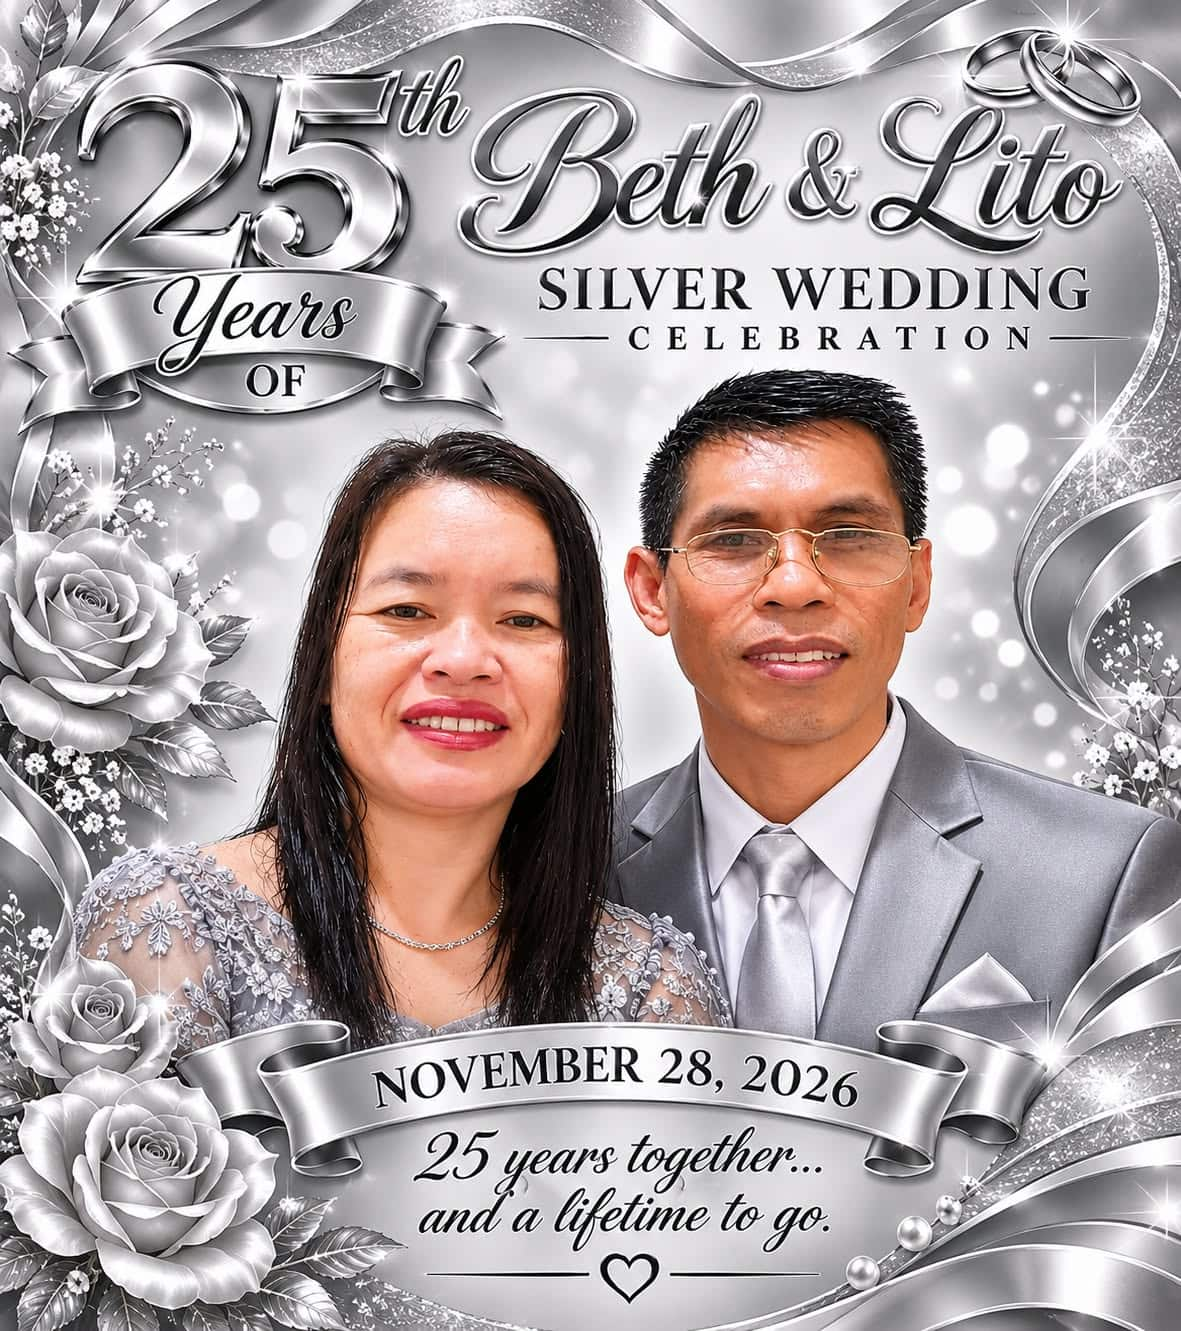
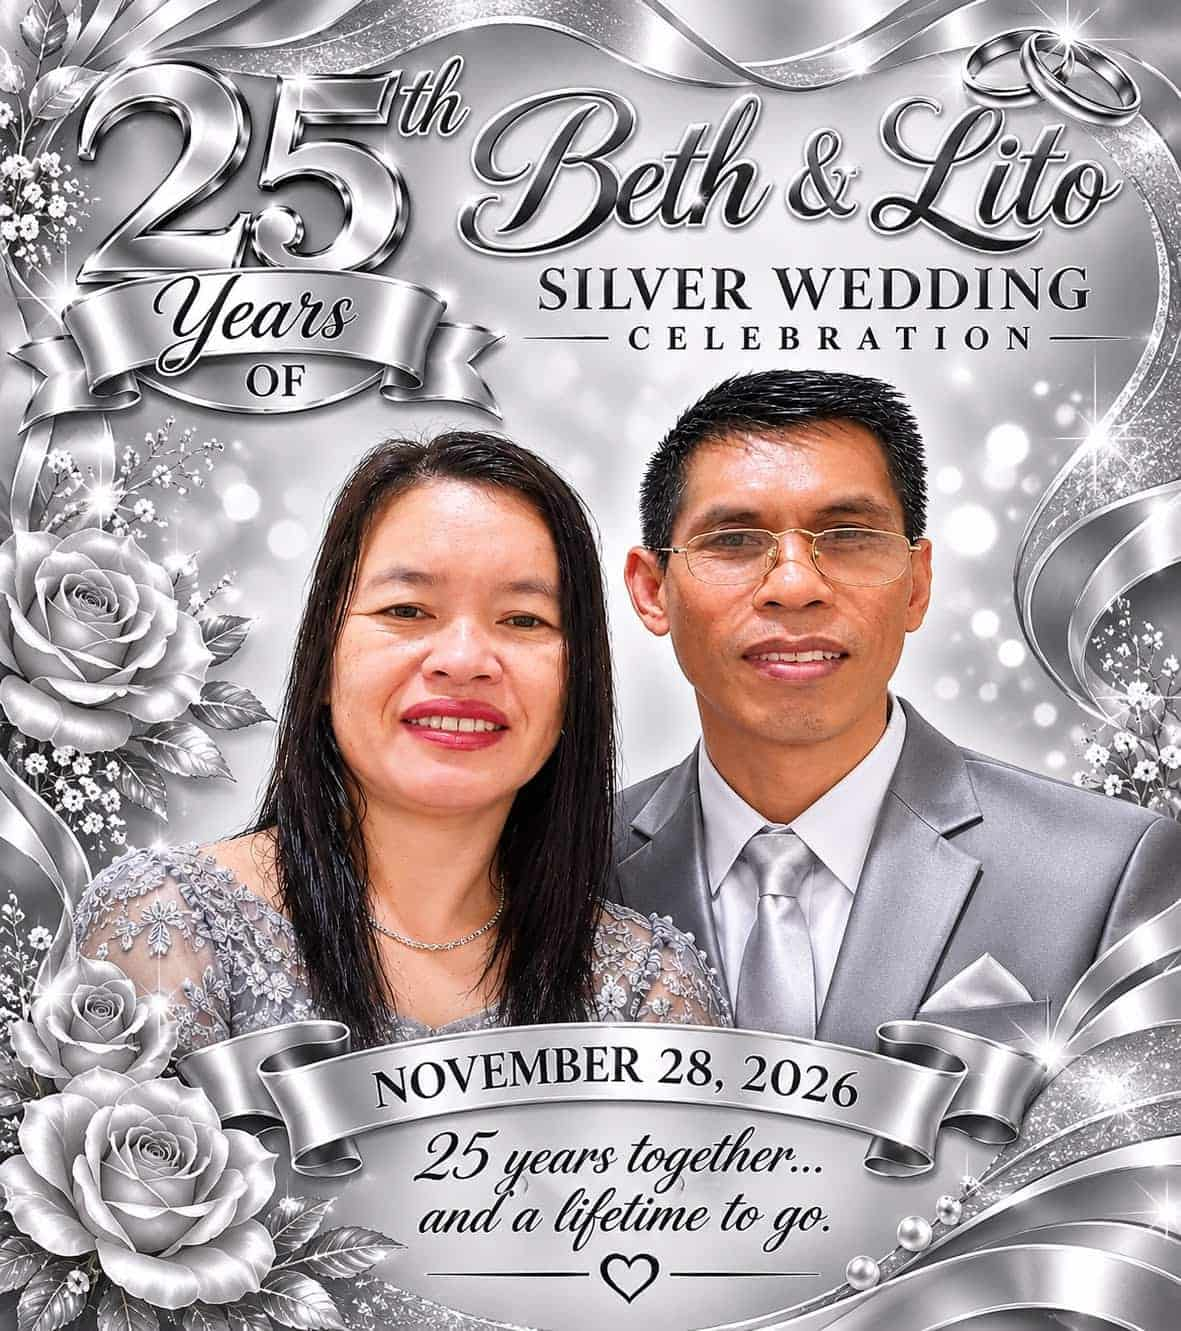
..

Changed region(s): [[0.5182, 0.8933, 0.5487, 0.9241]]

diff --git a/js/min/loader.min.js b/js/min/loader.min.js
@@ -1,1 +1,1 @@
-const CONTENT_BUILD_VERSION="11.05.26",SCRIPT_BUILD_VERSION="11.05.26",ANIMATION_VERSION="1.0.0",SCRIPT_VERSION="1.0.0",LISTENER_VERSION="1.0.0",DATA_VERSION="1.0.3",ICON_VERSION="1.0.0",FONT_VERSION="1.0.0",STYLE_VERSION="1.0.0",HTML_LOADING_VERSION="1.0.0",HTML_HEADER_VERSION="1.0.0",HTML_MAIN_VERSION="1.0.0",HTML_FOOTER_VERSION="1.0.0",loadAssets=({rel:t,href:e,type:n})=>new Promise((s,o)=>{const a=document.createElement("link");a.rel=t,a.href=e,n&&(a.type=n),a.onload=s,a.onerror=o,document.head.appendChild(a),"stylesheet"!=t?.toLowerCase()&&s()}),loadContentHTML=async(t,e)=>{const n=await fetch(e),s=await n.text();document.getElementById(t).insertAdjacentHTML("beforeend",s)},loadWebContent=async()=>{await loadAssets({rel:"stylesheet",href:"css/style.min.css?v=1.0.0&11.05.26"}),await loadContentHTML("loadingContent","content/loading.html?v=1.0.0&11.05.26"),await loadAssets({rel:"icon",href:"/assets/favicon.ico?v=1.0.0&11.05.26",type:"image/x-icon"}),await loadAssets({rel:"stylesheet",href:"assets/fonts/fonts.min.css?v=1.0.0&11.05.26"}),await loadContentHTML("mainContent","content/header.html?v=1.0.0&11.05.26"),await loadContentHTML("mainContent","content/main_content.html?v=1.0.0&11.05.26"),await loadContentHTML("mainContent","content/footer.html?v=1.0.0&11.05.26"),console.log("Website content loaded")},scripts=["js/libs/gsap.min.js","js/libs/scrollTrigger.min.js","js/min/animation.min.js?v=1.0.0&11.05.26","js/min/script.min.js?v=1.0.0&11.05.26","js/min/listener.min.js?v=1.0.0&11.05.26","js/min/content.min.js?v=1.0.3&11.05.26"],loadScripts=(t=0)=>{if(t>=scripts.length)return void console.log("Website scripts loaded");const e=document.createElement("script");e.src=scripts[t],e.onload=()=>loadScripts(t+1),document.body.appendChild(e)};(async()=>{await loadWebContent(),loadScripts()})();
+const CONTENT_BUILD_VERSION="11.06.26",SCRIPT_BUILD_VERSION="11.06.26",ANIMATION_VERSION="1.0.0",SCRIPT_VERSION="1.0.0",LISTENER_VERSION="1.0.0",DATA_VERSION="1.0.4",ICON_VERSION="1.0.0",FONT_VERSION="1.0.0",STYLE_VERSION="1.0.0",HTML_LOADING_VERSION="1.0.0",HTML_HEADER_VERSION="1.0.0",HTML_MAIN_VERSION="1.0.0",HTML_FOOTER_VERSION="1.0.0",loadAssets=({rel:t,href:e,type:n})=>new Promise((s,o)=>{const a=document.createElement("link");a.rel=t,a.href=e,n&&(a.type=n),a.onload=s,a.onerror=o,document.head.appendChild(a),"stylesheet"!=t?.toLowerCase()&&s()}),loadContentHTML=async(t,e)=>{const n=await fetch(e),s=await n.text();document.getElementById(t).insertAdjacentHTML("beforeend",s)},loadWebContent=async()=>{await loadAssets({rel:"stylesheet",href:"css/style.min.css?v=1.0.0&11.06.26"}),await loadContentHTML("loadingContent","content/loading.html?v=1.0.0&11.06.26"),await loadAssets({rel:"icon",href:"/assets/favicon.ico?v=1.0.0&11.06.26",type:"image/x-icon"}),await loadAssets({rel:"stylesheet",href:"assets/fonts/fonts.min.css?v=1.0.0&11.06.26"}),await loadContentHTML("mainContent","content/header.html?v=1.0.0&11.06.26"),await loadContentHTML("mainContent","content/main_content.html?v=1.0.0&11.06.26"),await loadContentHTML("mainContent","content/footer.html?v=1.0.0&11.06.26"),console.log("Website content loaded")},scripts=["js/libs/gsap.min.js","js/libs/scrollTrigger.min.js","js/min/animation.min.js?v=1.0.0&11.06.26","js/min/script.min.js?v=1.0.0&11.06.26","js/min/listener.min.js?v=1.0.0&11.06.26","js/min/content.min.js?v=1.0.4&11.06.26"],loadScripts=(t=0)=>{if(t>=scripts.length)return void console.log("Website scripts loaded");const e=document.createElement("script");e.src=scripts[t],e.onload=()=>loadScripts(t+1),document.body.appendChild(e)};(async()=>{await loadWebContent(),loadScripts()})();

diff --git a/js/loader.js b/js/loader.js
@@ -1,11 +1,11 @@
-const CONTENT_BUILD_VERSION = "11.05.26" //reache all
-const SCRIPT_BUILD_VERSION = "11.05.26" //reache all
+const CONTENT_BUILD_VERSION = "11.06.26" //reache all
+const SCRIPT_BUILD_VERSION = "11.06.26" //reache all
 
 //Scripts version
 const ANIMATION_VERSION = "1.0.0";
 const SCRIPT_VERSION = "1.0.0";
 const LISTENER_VERSION = "1.0.0";
-const DATA_VERSION = "1.0.3";
+const DATA_VERSION = "1.0.4";
 
 //Assets
 const ICON_VERSION = "1.0.0";
